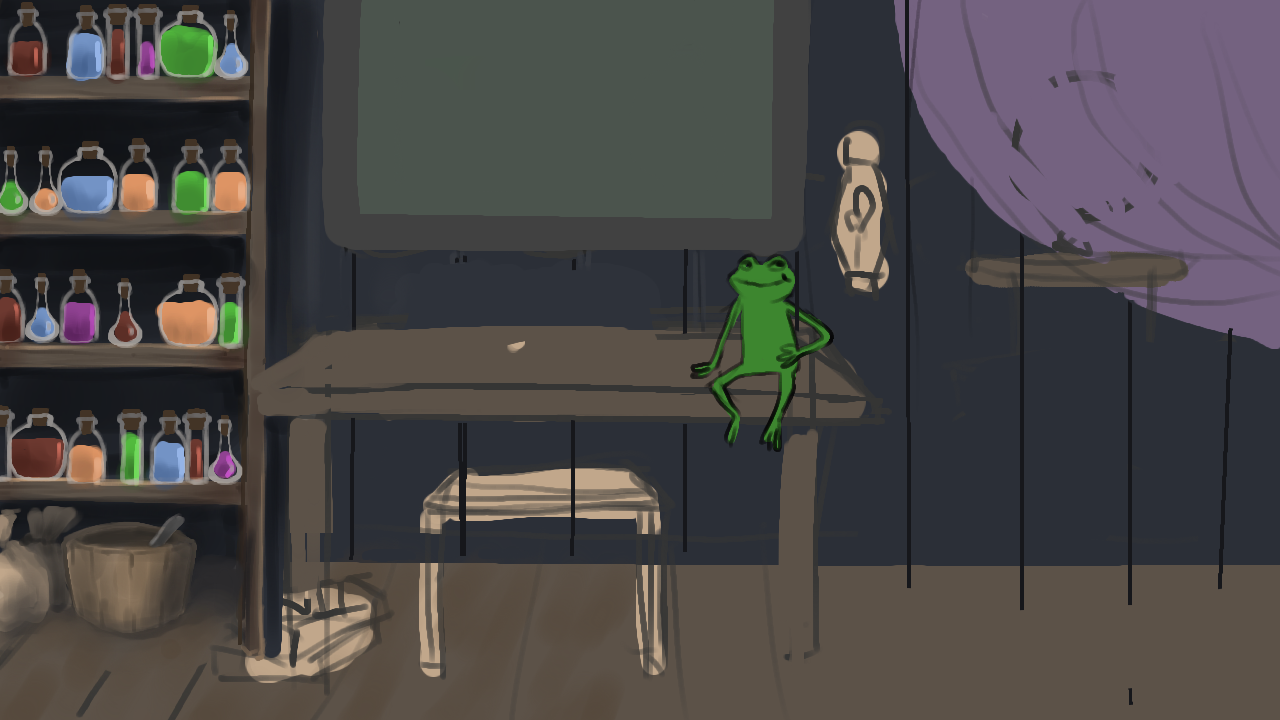
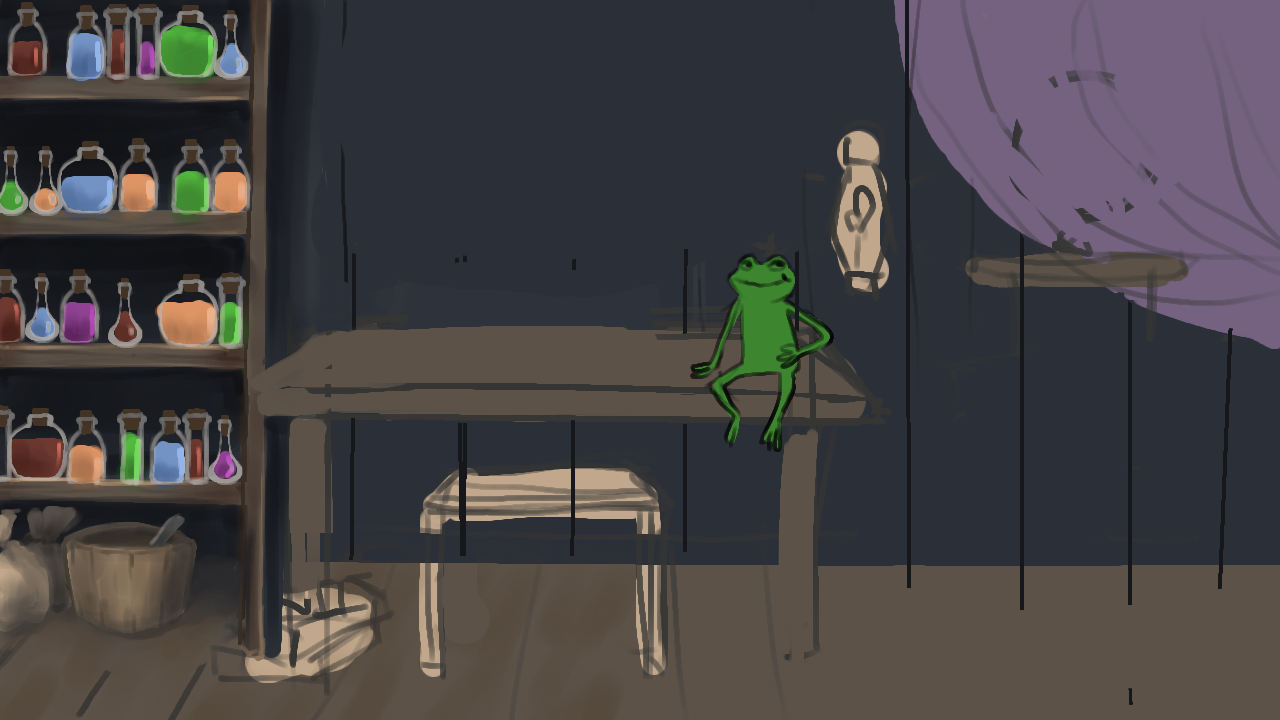
added quest billboard in Cabin scene

Changed region(s): [[0.25, 0.0, 0.625, 0.3361], [0.375, 0.4583, 0.4062, 0.4889]]

diff --git a/src/scenes/Cabin.ts b/src/scenes/Cabin.ts
@@ -16,6 +16,7 @@ export class CabinScene extends Phaser.Scene {
         this.load.image('cauldron', 'assets/image/drawings/cauldron.png');
         this.load.image('book', 'assets/image/drawings/book.png');
         this.load.image('crystalBall', 'assets/image/drawings/crystal-ball.png');
+        this.load.image('questBoard', 'assets/image/drawings/questboard.png');
     }
 
     create() {
@@ -23,6 +24,9 @@ export class CabinScene extends Phaser.Scene {
 
         const crystalBallImage = this.add.image(700, 150, 'crystalBall').setScale(0.7,0.7).setInteractive();
         // crystalBallImage.on("pointerdown", () => this.scene.start("Gossip"));
+
+        const questBoardImage = this.add.image(350, 100, 'questBoard').setScale(0.7, 0.7).setInteractive();
+        // questBoardImage.on("pointerdown", () => this.scene.start("QuestBillboard"));
 
         const cauldronImage = this.add.image(700, 425, 'cauldron').setScale(.65, .65).setInteractive();
         cauldronImage.on("pointerdown", () => this.scene.start("Craft"));
